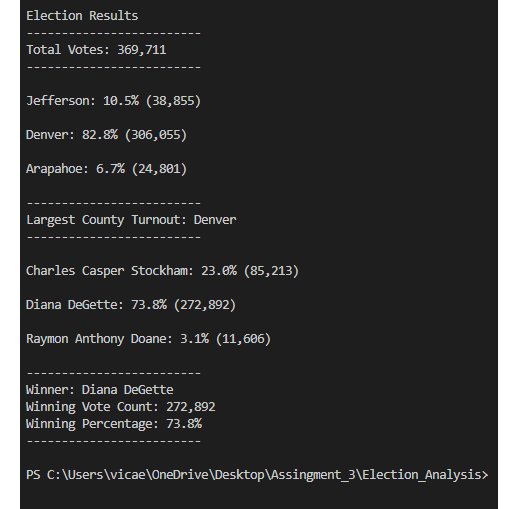
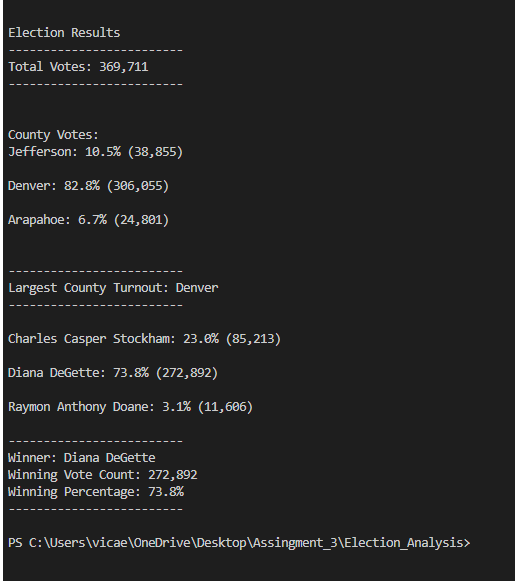
final txt file

Changed region(s): [[0.0, 0.0, 1.0, 1.0]]

diff --git a/Pypoll_Challenge.py b/Pypoll_Challenge.py
@@ -62,7 +62,8 @@ with open(file_to_save, "w") as txt_file:
         f"\nElection Results\n"
         f"-------------------------\n"
         f"Total Votes: {total_votes:,}\n"
-        f"-------------------------\n\n")
+        f"-------------------------\n\n\n"
+        f"County Votes:\n")
     print(election_results, end="")
     # Save the final vote count to the text file.
     txt_file.write(election_results)
@@ -73,8 +74,8 @@ with open(file_to_save, "w") as txt_file:
         # 6c: Calculate the percentage of votes for the county.
         cvote_percentage = float(cvotes) / float(total_votes) * 100
         county_results = (
-            f"{county_name}: {cvote_percentage:.1f}% ({cvotes:,})\n")
-         # 6d: Print the county results to the terminal.
+            f"{county_name}: {cvote_percentage:.1f}% ({cvotes:,})\n")  
+        #6d: Print the county results to the terminal.
         print(county_results)
          # 6e: Save the county votes to a text file.
         txt_file.write(county_results)
@@ -84,6 +85,7 @@ with open(file_to_save, "w") as txt_file:
             winning_county = county_name
     # 7: Print the county with the largest turnout to the terminal.
     winning_county_summary = (
+    f"\n"    
     f"-------------------------\n"
     f"Largest County Turnout: {winning_county}\n"
     f"-------------------------\n")
